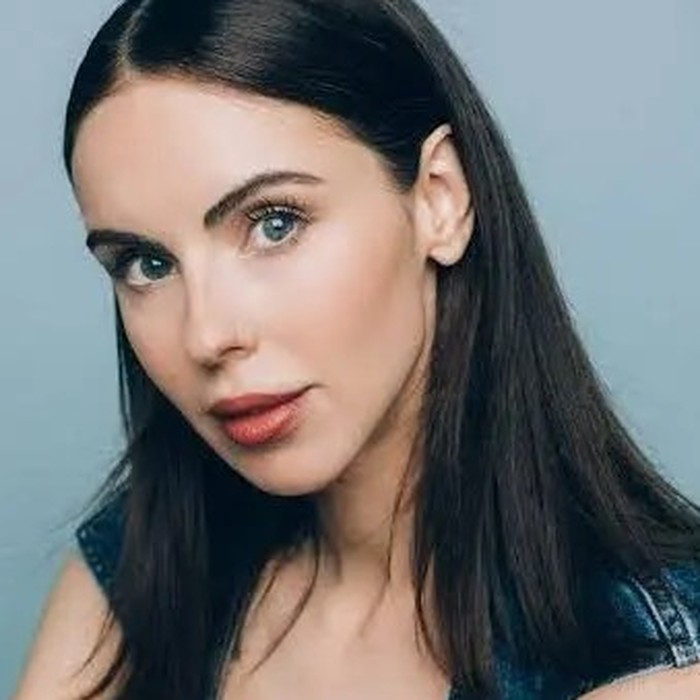
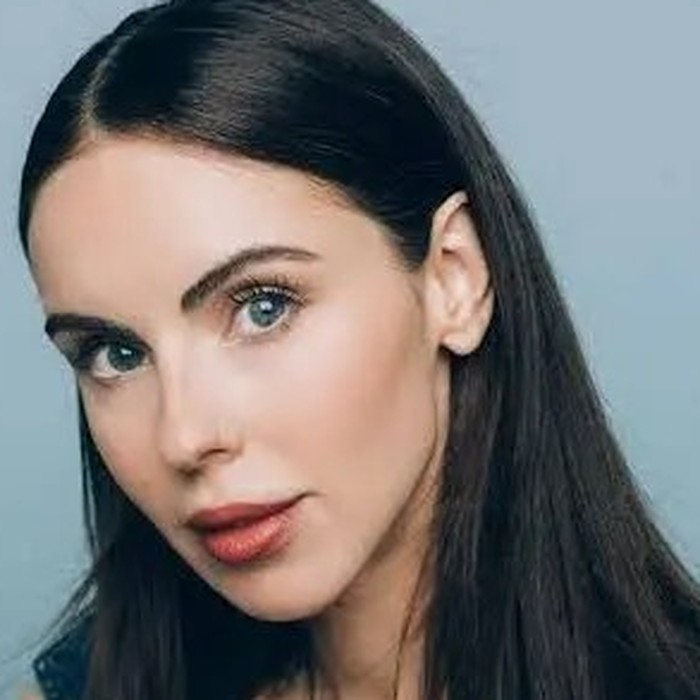
Add 6 new attendees, distribute genders across grid, swap photos
- New: Flo Crivello, Osric Chau, Emma Gilchrist, Mike LeBeau, Mitchell Kucher, Giulio Michelon
- Updated photos: Simran Kaur, Osric Chau, Brit MacRae
- Reordered grid to interleave women and men evenly across rows

diff --git a/src/app/page.tsx b/src/app/page.tsx
@@ -10,27 +10,33 @@ import HeroParallax from "@/components/HeroParallax";
 
 const comingThisYear: { name: string; role: string; knownFor: string; image?: string }[] = [
   { name: "Tim Heidecker", role: "Comedian", knownFor: "Tim and Eric", image: "/images/speakers/tim-heidecker.jpg" },
+  { name: "Steph Smith", role: "Growth", knownFor: "Nvidia", image: "/images/speakers/steph-smith.jpg" },
   { name: "Hannibal Buress", role: "Comedian", knownFor: "The Eric Andre Show", image: "/images/speakers/hannibal-buress.jpg" },
   { name: "Josh Johnson", role: "Comedian", knownFor: "The Daily Show", image: "/images/speakers/josh-johnson.jpg" },
-  { name: "Kevin Rose", role: "Investor", knownFor: "Digg, True Ventures", image: "/images/speakers/kevin-rose.jpg" },
   { name: "Dr. Rhonda Patrick", role: "Scientist", knownFor: "FoundMyFitness", image: "/images/speakers/dr-rhonda-patrick.jpg" },
-  { name: "Steph Smith", role: "Growth", knownFor: "Nvidia", image: "/images/speakers/steph-smith.jpg" },
+  { name: "Kevin Rose", role: "Investor", knownFor: "Digg, True Ventures", image: "/images/speakers/kevin-rose.jpg" },
   { name: "Dan Mangan", role: "Musician", knownFor: "Juno Winner, Side Door", image: "/images/speakers/dan-mangan.jpg" },
+  { name: "Brianne Kimmel", role: "Investor", knownFor: "Worklife Ventures", image: "/images/speakers/brianne-kimmel.jpg" },
   { name: "Matthew Dicks", role: "Storyteller", knownFor: "Storyworthy", image: "/images/speakers/matthew-dicks.jpg" },
   { name: "Jayson Gaignard", role: "Community Builder", knownFor: "Mastermind Talks", image: "/images/speakers/jayson-gaignard.jpg" },
-  { name: "Nick Gray", role: "Author", knownFor: "The 2-Hour Cocktail Party", image: "/images/speakers/nick-gray.jpg" },
-  { name: "Brianne Kimmel", role: "Investor", knownFor: "Worklife Ventures", image: "/images/speakers/brianne-kimmel.jpg" },
-  { name: "Rasa Izadnegahdar", role: "Global Health Director", knownFor: "Gates Foundation", image: "/images/speakers/rasa-izadnegahdar.jpg" },
   { name: "Simran Kaur", role: "Podcast Host", knownFor: "Girls That Invest", image: "/images/speakers/simran-kaur.jpg" },
+  { name: "Nick Gray", role: "Author", knownFor: "The 2-Hour Cocktail Party", image: "/images/speakers/nick-gray.jpg" },
+  { name: "Rasa Izadnegahdar", role: "Global Health Director", knownFor: "Gates Foundation", image: "/images/speakers/rasa-izadnegahdar.jpg" },
   { name: "Kate Snyder", role: "Creative Director", knownFor: "Studio Roslyn", image: "/images/speakers/kate-snyder.jpg" },
   { name: "Greg Lansky", role: "Artist", knownFor: "Contemporary Art", image: "/images/speakers/greg-lansky.jpg" },
-  { name: "Brit MacRae", role: "Actress", knownFor: "KINO", image: "/images/speakers/brit-macrae.jpg" },
-  { name: "Ann Makosinski", role: "Filmmaker", knownFor: "Inventor, BBC Host", image: "/images/speakers/ann-makosinski.jpg" },
-  { name: "Dr. Ashley Mason", role: "Psychologist", knownFor: "UCSF", image: "/images/speakers/ashley-mason.jpg" },
-  { name: "Jaiya Varshney", role: "Founder", knownFor: "Tydra Biomaterial Labs", image: "/images/speakers/jaiya-varshney.jpg" },
-  { name: "Jason Verners", role: "Magician", knownFor: "Close-Up Magic", image: "/images/speakers/jason-verners.jpg" },
-  { name: "Marine Coursac", role: "Biologist & Photographer", knownFor: "ConnectEarth", image: "/images/speakers/marine-coursac.jpg" },
   { name: "Tom Junod", role: "Writer", knownFor: "Esquire, GQ, Atlantic", image: "/images/speakers/tom-junod.jpg" },
+  { name: "Brit MacRae", role: "Actress", knownFor: "KINO", image: "/images/speakers/brit-macrae.jpg" },
+  { name: "Flo Crivello", role: "Founder", knownFor: "Lindy AI", image: "/images/speakers/flo-crivello.jpg" },
+  { name: "Osric Chau", role: "Actor", knownFor: "Supernatural", image: "/images/speakers/osric-chau.jpg" },
+  { name: "Ann Makosinski", role: "Filmmaker", knownFor: "Inventor, BBC Host", image: "/images/speakers/ann-makosinski.jpg" },
+  { name: "Mitchell Kucher", role: "Filmmaker", knownFor: "TMS Media", image: "/images/speakers/mitchell-kucher.jpg" },
+  { name: "Dr. Ashley Mason", role: "Psychologist", knownFor: "UCSF", image: "/images/speakers/ashley-mason.jpg" },
+  { name: "Giulio Michelon", role: "Founder", knownFor: "Belka", image: "/images/speakers/giulio-michelon.jpg" },
+  { name: "Jaiya Varshney", role: "Founder", knownFor: "Tydra Biomaterial Labs", image: "/images/speakers/jaiya-varshney.jpg" },
+  { name: "Mike LeBeau", role: "Director of Product", knownFor: "Meta", image: "/images/speakers/mike-lebeau.jpg" },
+  { name: "Marine Coursac", role: "Biologist & Photographer", knownFor: "ConnectEarth", image: "/images/speakers/marine-coursac.jpg" },
+  { name: "Jason Verners", role: "Magician", knownFor: "Close-Up Magic", image: "/images/speakers/jason-verners.jpg" },
+  { name: "Emma Gilchrist", role: "Co-Founder", knownFor: "The Narwhal", image: "/images/speakers/emma-gilchrist.jpg" },
 ];
 
 function initialsFor(name: string) {